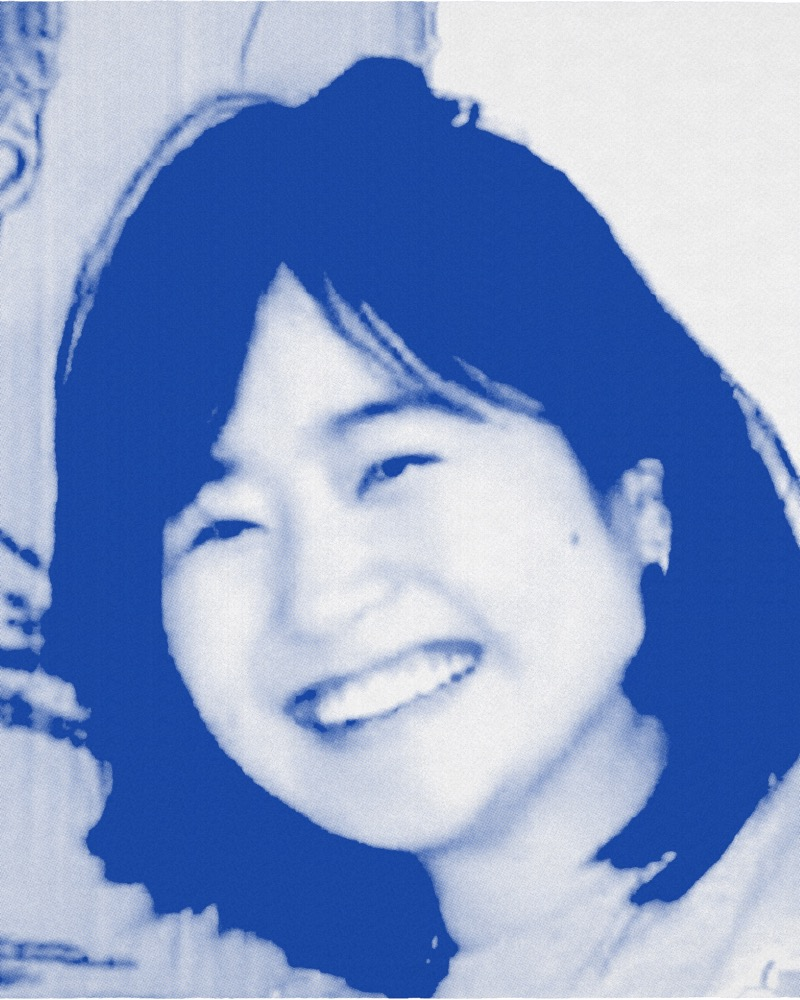
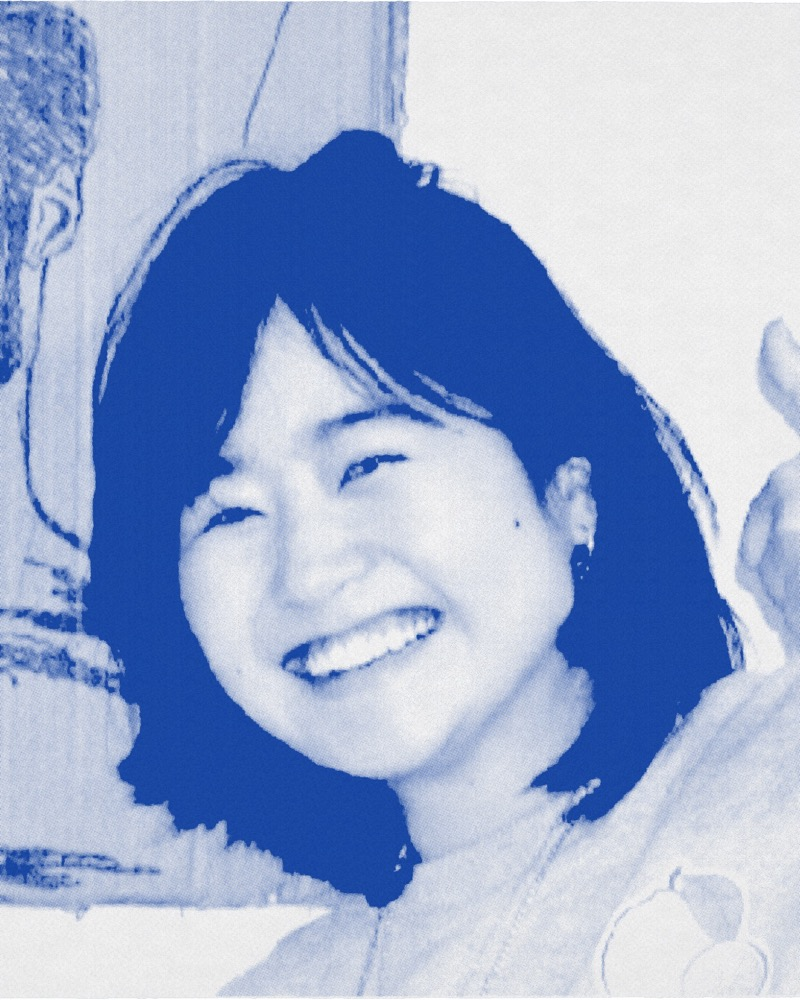
Swap Jia Chen photo

diff --git a/tour.js b/tour.js
@@ -131,7 +131,7 @@
       photo: 'photos/jangho-yun.jpg' },
     { id: 12, name: 'Jia Chen', role: 'Co-founder & CEO', company: 'Jam',
       bio: 'I’ll be talking about going from engineering student to building larger projects.',
-      photo: 'photos/jia-chen.jpg' },
+      photo: 'photos/jia-chen.jpg?v=2' },
     { id: 8, name: 'Kenton Grant', role: 'Director of Technology', company: 'Olson Kundig',
       /* drawn from the Olson Kundig profile — confirm with Kenton */
       bio: 'I lead design and information technology across Olson Kundig\u2019s offices, after two decades in architecture and engineering, including design technology at Gensler and work for a Fortune 500 defense contractor.',
